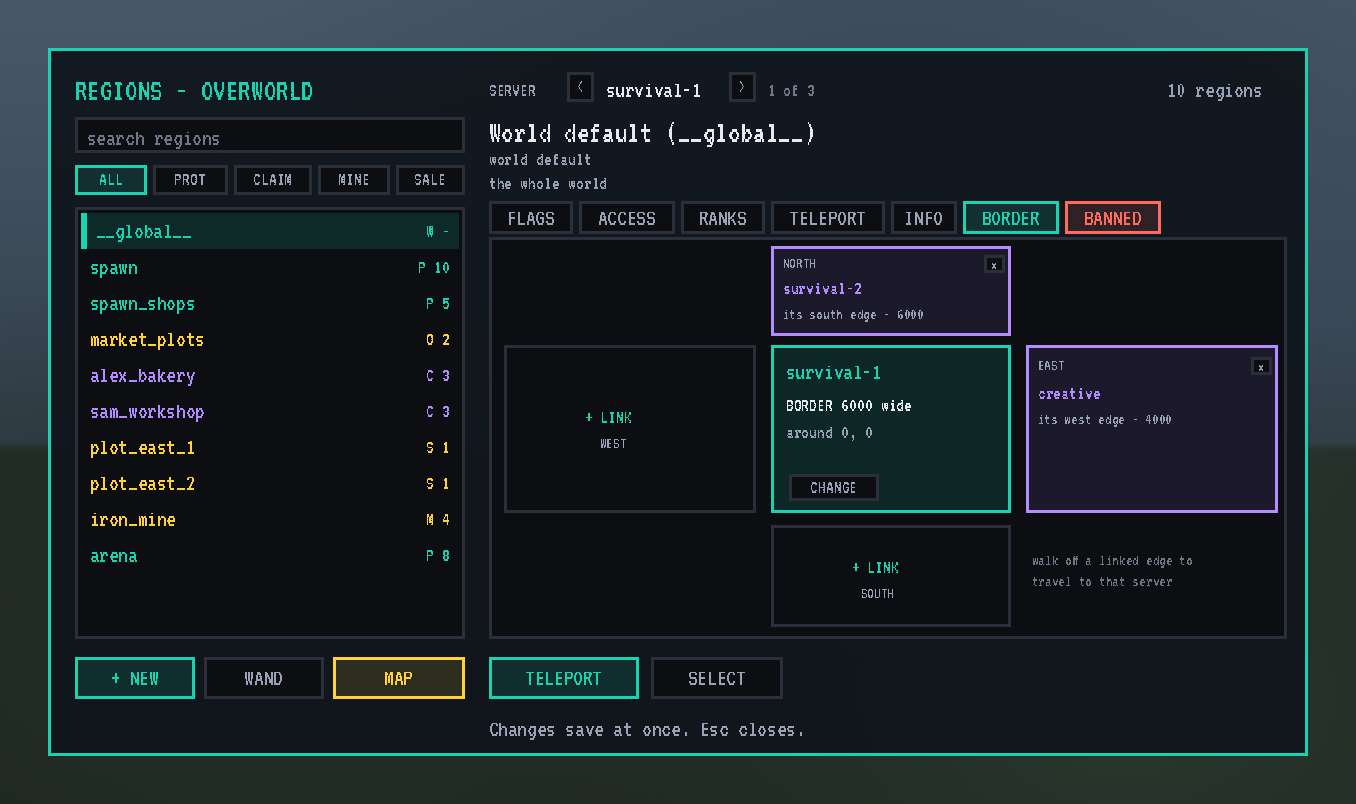
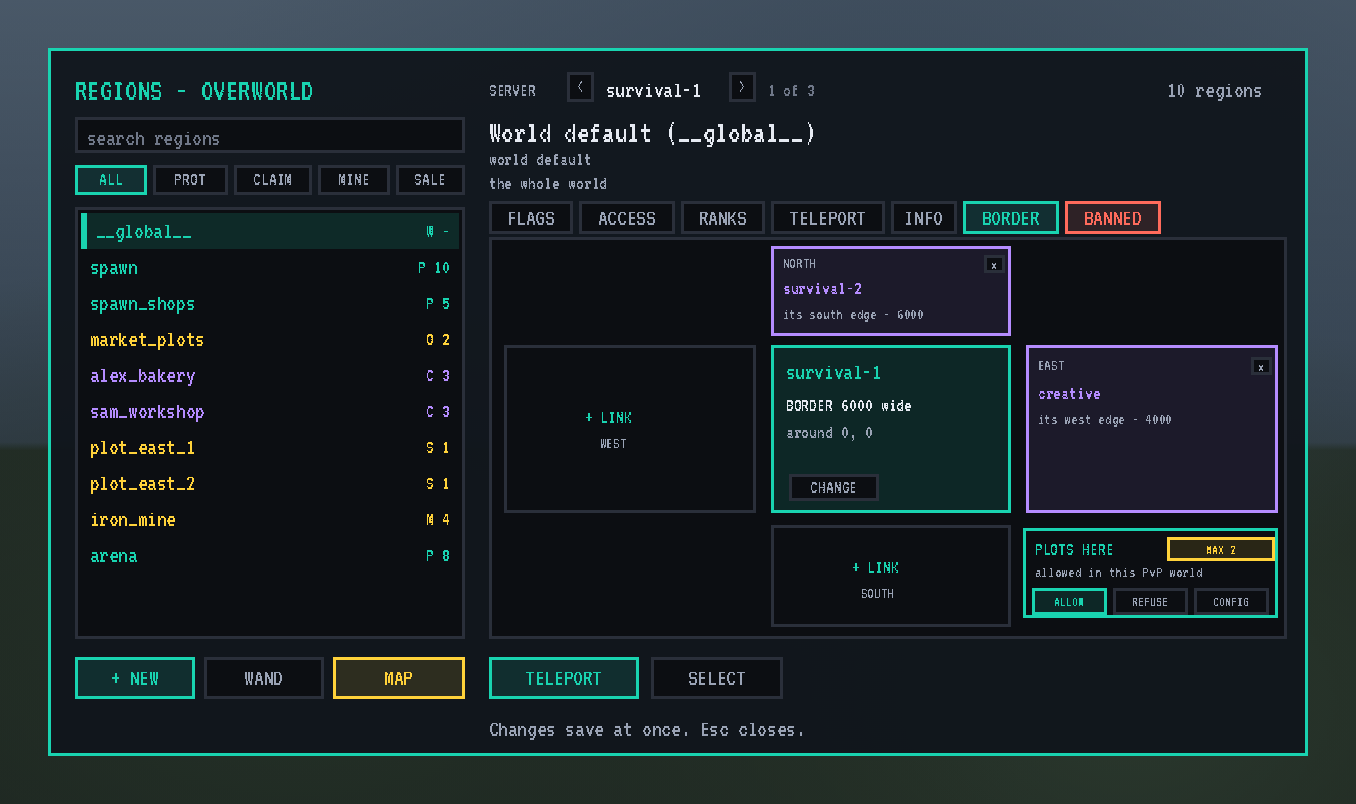
new map features

Changed region(s): [[0.7434, 0.653, 0.9602, 0.7774]]

diff --git a/tools/curseforge/admin_sale.html b/tools/curseforge/admin_sale.html
@@ -1,0 +1,74 @@
+<!doctype html>
+<html><head><meta charset="utf-8"><meta name="size" content="452x268"><link rel="stylesheet" href="holo.css"></head>
+<body>
+<div class="world"></div>
+<div class="screen" style="left:16px;top:16px;width:420px;height:236px">
+    <!-- left: list -->
+    <div class="abs t1 tq" style="left:8px;top:8px">REGIONS - OVERWORLD</div>
+    <div class="inset" style="left:8px;top:22px;width:130px;height:12px"><span class="abs t75 hint" style="left:3px;top:2px">search regions</span></div>
+    <div class="chip on" style="left:8px;top:38px;width:24px;height:10px">ALL</div>
+    <div class="chip" style="left:34px;top:38px;width:25px;height:10px">PROT</div>
+    <div class="chip" style="left:61px;top:38px;width:26px;height:10px">CLAIM</div>
+    <div class="chip" style="left:89px;top:38px;width:24px;height:10px">MINE</div>
+    <div class="chip" style="left:115px;top:38px;width:23px;height:10px">SALE</div>
+    <div class="inset" style="left:8px;top:52px;width:130px;height:144px">
+        <div class="row" style="top:1px"><span class="id muted">__global__</span><span class="ty muted">W -</span></div>
+        <div class="row" style="top:13px"><span class="id tq">spawn</span><span class="ty tq">P 10</span></div>
+        <div class="row" style="top:25px"><span class="id tq">spawn_shops</span><span class="ty tq">P 5</span></div>
+        <div class="row sel" style="top:37px"><span class="id gold">market_plots</span><span class="ty gold">O 2</span></div>
+        <div class="row" style="top:49px"><span class="id vio">alex_bakery</span><span class="ty vio">C 3</span></div>
+        <div class="row" style="top:61px"><span class="id vio">sam_workshop</span><span class="ty vio">C 3</span></div>
+        <div class="row" style="top:73px"><span class="id gold">plot_east_1</span><span class="ty gold">S 1</span></div>
+        <div class="row" style="top:85px"><span class="id gold">plot_east_2</span><span class="ty gold">S 1</span></div>
+        <div class="row" style="top:97px"><span class="id gold">iron_mine</span><span class="ty gold">M 4</span></div>
+        <div class="row" style="top:109px"><span class="id tq">arena</span><span class="ty tq">P 8</span></div>
+    </div>
+    <div class="btn tq" style="left:8px;top:202px;width:40px;height:14px">+ NEW</div>
+    <div class="btn" style="left:51px;top:202px;width:40px;height:14px">WAND</div>
+    <div class="btn gold" style="left:94px;top:202px;width:44px;height:14px;">MAP</div>
+
+    <!-- right: pane -->
+    <div class="abs t6 muted" style="left:146px;top:10px">SERVER</div>
+    <div class="chip" style="left:172px;top:7px;width:9px;height:10px">&lt;</div>
+    <div class="abs t75 text" style="left:185px;top:9px">survival-1</div>
+    <div class="chip" style="left:226px;top:7px;width:9px;height:10px">&gt;</div>
+    <div class="abs t6 hint" style="left:239px;top:10px">1 of 3</div>
+    <div class="abs t75 muted" style="left:372px;top:9px">10 regions</div>
+    <div class="abs t1 text" style="left:146px;top:22px">Market Plots (market_plots)</div>
+    <div class="abs t6 muted" style="left:146px;top:33px">open - priority 2</div>
+    <div class="abs t6 muted" style="left:146px;top:41px">(-40, -64, 120) to (23, 319, 183) - 64 x 384 x 64 - 0 owners - 0 members</div>
+    <div class="chip big" style="left:146px;top:50px;width:28px;height:11px">FLAGS</div>
+    <div class="chip big" style="left:176px;top:50px;width:32px;height:11px">ACCESS</div>
+    <div class="chip big" style="left:210px;top:50px;width:28px;height:11px">RANKS</div>
+    <div class="chip big on" style="left:240px;top:50px;width:22px;height:11px">SALE</div>
+    <div class="chip big" style="left:264px;top:50px;width:22px;height:11px">MINE</div>
+    <div class="chip big" style="left:288px;top:50px;width:38px;height:11px">TELEPORT</div>
+    <div class="chip big" style="left:328px;top:50px;width:22px;height:11px">INFO</div>
+    <div class="chip big bad" style="left:352px;top:50px;width:32px;height:11px">BANNED</div>
+    <div class="inset" style="left:146px;top:62px;width:266px;height:134px">
+        <div class="abs t6 gold" style="left:6px;top:5px">PLOT FOR SALE</div>
+        <div class="abs t5 hint" style="left:6px;top:12px">a fixed price for this whole region; the buyer becomes its owner</div>
+        <div class="abs t75 muted" style="left:6px;top:20px">not for sale</div>
+        <div class="btn gold" style="left:6px;top:31px;width:70px;height:12px">SET PRICE</div>
+        <div class="chip" style="left:82px;top:32px;width:30px;height:10px;font-size:5px">COPPER</div>
+        <div class="chip gold" style="left:114px;top:32px;width:30px;height:10px;font-size:5px">GOLD</div>
+        <div class="chip" style="left:146px;top:32px;width:30px;height:10px;font-size:5px">DIAMOND</div>
+        <div class="chip" style="left:178px;top:32px;width:30px;height:10px;font-size:5px">NETHERITE</div>
+        <div class="chip" style="left:210px;top:32px;width:30px;height:10px;font-size:5px">ILLYRIUM</div>
+        <div class="abs t6 gold" style="left:6px;top:52px">OPEN AREA</div>
+        <div class="abs t5 hint" style="left:6px;top:59px">players outline their own plot inside and pay per block of ground</div>
+        <div class="abs t75 text" style="left:6px;top:67px">2 gold coins per block, plots 5 to 16 blocks a side</div>
+        <div class="btn gold" style="left:6px;top:78px;width:70px;height:12px">SET COST</div>
+        <div class="btn" style="left:80px;top:78px;width:56px;height:12px">MIN SIZE</div>
+        <div class="btn" style="left:140px;top:78px;width:56px;height:12px">MAX SIZE</div>
+        <div class="abs t6 gold" style="left:6px;top:96px">BUYER MAY SET: entry, chest-access, use, greeting, farewell</div>
+        <div class="chip gold" style="left:226px;top:94px;width:34px;height:10px">edit</div>
+        <div class="abs t5 hint" style="left:6px;top:108px">Players buy at BSP Core's Land Office (block, or by finishing an outline with the wand).</div>
+        <div class="abs t6 text" style="left:6px;top:120px">Plots per player inside: 1</div>
+        <div class="chip gold" style="left:226px;top:118px;width:34px;height:10px">edit</div>
+    </div>
+    <div class="btn tq" style="left:146px;top:202px;width:50px;height:14px">TELEPORT</div>
+    <div class="btn" style="left:200px;top:202px;width:44px;height:14px">SELECT</div>
+    <div class="abs t75 muted" style="left:146px;top:222px">Changes save at once. Esc closes.</div>
+</div>
+</body></html>

diff --git a/tools/curseforge/admin_border.html b/tools/curseforge/admin_border.html
@@ -67,8 +67,14 @@
         <div class="abs" style="left:93px;top:95px;width:80px;height:34px;border:1px solid var(--line)">
             <span class="abs t6 tq" style="left:26px;top:10px">+ LINK</span><span class="abs t5 muted" style="left:29px;top:19px">SOUTH</span>
         </div>
-        <span class="abs t5 hint" style="left:180px;top:104px">walk off a linked edge to</span>
-        <span class="abs t5 hint" style="left:180px;top:111px">travel to that server</span>
+        <div class="abs" style="left:177px;top:96px;width:85px;height:30px;border:1px solid var(--tq)">
+            <span class="abs t6 tq" style="left:3px;top:3px">PLOTS HERE</span>
+            <span class="chip gold" style="left:47px;top:2px;width:36px;height:8px;font-size:5px">MAX 2</span>
+            <span class="abs t5 muted" style="left:3px;top:11px">allowed in this PvP world</span>
+            <span class="chip on" style="left:2px;top:19px;width:25px;height:9px;font-size:5px">ALLOW</span>
+            <span class="chip" style="left:29px;top:19px;width:25px;height:9px;font-size:5px">REFUSE</span>
+            <span class="chip" style="left:56px;top:19px;width:25px;height:9px;font-size:5px">CONFIG</span>
+        </div>
     </div>
     <div class="btn tq" style="left:146px;top:202px;width:50px;height:14px">TELEPORT</div>
     <div class="btn" style="left:200px;top:202px;width:44px;height:14px">SELECT</div>

diff --git a/src/main/java/com/mrgregles/bsp_region_guard/client/MapTileCache.java b/src/main/java/com/mrgregles/bsp_region_guard/client/MapTileCache.java
@@ -16,15 +16,32 @@ import java.util.Set;
 /**
  * The plot map's terrain on the client (D61): chunk colours as the server sent them, per world, and which chunks are
  * still on their way. The screen asks for what it shows and draws what has arrived.
+ *
+ * <p>World names repeat across servers (every server has a {@code minecraft:overworld}), so the tiles belong to one
+ * connection to one server: they are dropped when the client's level changes, which happens on every login and on a
+ * proxy's server switch (bug B12), and on login and logout.
  */
 public final class MapTileCache {
     private static final Map<String, Map<Long, byte[]>> TILES = new HashMap<>();
     private static final Set<String> ASKED = new HashSet<>();
+    /** The client level the tiles were gathered under; another level means another server or a fresh login. */
+    @Nullable
+    private static Object level;
 
     private MapTileCache() {
     }
 
+    /** Drops the tiles when the client is no longer in the level they came with. */
+    private static void sameServer() {
+        Object now = net.minecraft.client.Minecraft.getInstance().level;
+        if (now != level) {
+            clear();
+            level = now;
+        }
+    }
+
     public static void receive(MapTilesPacket msg) {
+        sameServer();
         Map<Long, byte[]> world = TILES.computeIfAbsent(msg.dimension(), k -> new HashMap<>());
         for (int i = 0; i < msg.chunks().size(); i++) {
             world.put(msg.chunks().get(i), msg.colours().get(i));
@@ -35,6 +52,7 @@ public final class MapTileCache {
     /** The colours of a chunk (256, row by row), an empty array for empty ground, or null when not here yet. */
     @Nullable
     public static byte[] chunk(String dimension, long chunk) {
+        sameServer();
         Map<Long, byte[]> world = TILES.get(dimension);
         return world == null ? null : world.get(chunk);
     }
@@ -47,6 +65,7 @@ public final class MapTileCache {
 
     /** Asks the server for any of these chunks not here and not already asked for. */
     public static void want(String dimension, List<Long> chunks, boolean refresh) {
+        sameServer();
         List<Long> ask = new ArrayList<>();
         for (long c : chunks) {
             if ((refresh || chunk(dimension, c) == null) && ASKED.add(dimension + "|" + c)) {

diff --git a/src/main/java/com/mrgregles/bsp_region_guard/client/RegionScreen.java b/src/main/java/com/mrgregles/bsp_region_guard/client/RegionScreen.java
@@ -1271,7 +1271,11 @@ public class RegionScreen extends HoloScreen {
     /** An amount in this region's currency (D95): {@code 500 pieces} or {@code 5 gold coins}; {@code currency} null reads the detail's. */
     private static String money(java.util.Map<String, String> data, String amount, @Nullable String currency) {
         String c = currency != null ? currency : data.getOrDefault("currency", "pieces");
-        return c.equals("pieces") ? Tr.t("amount_pieces", amount) : Tr.t("amount_coins", amount, Tr.t("coin_tier." + c).toLowerCase(java.util.Locale.ROOT));
+        if (c.equals("pieces")) {
+            return Tr.t("amount_pieces", amount);
+        }
+        String tier = Tr.t("coin_tier." + c).toLowerCase(java.util.Locale.ROOT);
+        return amount.equals("1") ? Tr.t("amount_coin", amount, tier) : Tr.t("amount_coins", amount, tier);
     }
 
     private void data(String key, String current, String hint) {

diff --git a/src/main/java/com/mrgregles/bsp_region_guard/client/ClientSetup.java b/src/main/java/com/mrgregles/bsp_region_guard/client/ClientSetup.java
@@ -34,6 +34,7 @@ public final class ClientSetup {
         MinecraftForge.EVENT_BUS.addListener(RegionRenderer::onRenderLevel);
         MinecraftForge.EVENT_BUS.addListener(ClientSetup::onClientTick);
         MinecraftForge.EVENT_BUS.addListener(ClientSetup::onLoggingOut);
+        MinecraftForge.EVENT_BUS.addListener(ClientSetup::onLoggingIn);
     }
 
     private static void onClientTick(TickEvent.ClientTickEvent event) {
@@ -51,5 +52,11 @@ public final class ClientSetup {
 
     private static void onLoggingOut(net.minecraftforge.client.event.ClientPlayerNetworkEvent.LoggingOut event) {
         RegionClient.clear();
+        MapTileCache.clear();
+    }
+
+    /** Also on a proxy's server switch: another server's map tiles must not carry over (B12). */
+    private static void onLoggingIn(net.minecraftforge.client.event.ClientPlayerNetworkEvent.LoggingIn event) {
+        MapTileCache.clear();
     }
 }

diff --git a/tools/gen_assets.py b/tools/gen_assets.py
@@ -98,6 +98,7 @@ GUI = {
     "links_need_shared_storage": "links need shared storage",
     "plots_here": "PLOTS HERE",
     "amount_pieces": "%s pieces",
+    "amount_coin": "%s %s coin",
     "amount_coins": "%s %s coins",
     "worth_copper": "coins worth %s copper",
     "price_in_coins_0_takes_it_off_sale": "price in coins of the lit tier (none lit: the config's tier); 0 takes it off sale",

diff --git a/docs/curseforge/DESCRIPTION.md b/docs/curseforge/DESCRIPTION.md
@@ -14,7 +14,7 @@ It takes WorldGuard's ideas to Forge and drives them from screens rather than lo
 
 It is made for the [Build Secure Protect](https://www.curseforge.com/minecraft/modpacks/build-secure-protect) modpack and works closely with its sister mods: **BSP-Core** (required), and **BSP-Teleport** and **BSP-RankUp** (optional).
 
-> Version 0.4.0. The screens in this description are drawn from the mod's own layout and colours, as illustrations.
+> Version 0.5.0. The screens in this description are drawn from the mod's own layout and colours, as illustrations.
 
 ---
 
@@ -24,7 +24,7 @@ It is made for the [Build Secure Protect](https://www.curseforge.com/minecraft/m
 |---|---|
 | **Minecraft** | 1.20.1, Forge 47.4.10 or newer; runs on Mohist |
 | **Install on** | the server **and** every player (the screens and in-world drawing are client side) |
-| **Requires** | [BSP-Core](https://github.com/Build-Secure-Protect/BSP-Core) 1.1.0 or newer (tested with 1.3.0) |
+| **Requires** | [BSP-Core](https://github.com/Build-Secure-Protect/BSP-Core) 1.4.3 or newer |
 | **Works with** | [BSP-Teleport](https://github.com/Build-Secure-Protect/BSP-Teleport), BSP-RankUp, [LuckPerms](https://luckperms.net/) (Forge mod or the Bukkit plugin on Mohist) |
 | **Optional** | MySQL and Redis, only for several servers |
 
@@ -112,6 +112,10 @@ It also holds the world's **border**, a square set with `/rg border set <width>`
 - In the Overworld, Minecraft's own wall is moved to match so everyone can see it.
 - Teleports and homes outside the border are refused.
 
+The BORDER tab also has a **PLOTS HERE** card that decides land for players in this world (section 7):
+- **ALLOW**, **REFUSE** or **CONFIG**: whether plots may be made and bought in a world where Shatter Totems can be placed.
+- **MAX**: how many plots one player may own in this world.
+
 ## 5. Who may come in: members and ranks
 
 - **ACCESS tab:** a region's **owners** and **members**. They pass entry rules and may build.
@@ -122,7 +126,7 @@ It also holds the world's **border**, a square set with `/rg border set <width>`
 **With BSP-RankUp**, players climb a LuckPerms rank ladder by playing: time online, fights, Shatter Totems stolen and defended, and seasons survived. Region Guard reads those same groups, so ranking up actually opens doors:
 - **Rank-gated regions** let a player in once they reach the rank.
 - **Rank-gated mines** unlock better ores at higher ranks.
-- **Claim limits** rise with rank: 3 claims by default, more for higher groups (`claims.limitsByRank`).
+- **Claim limits** rise with rank: 3 claims per world by default, more for higher groups (`claims.limitsByRank`).
 
 Without RankUp, give groups by hand in LuckPerms and everything works the same.
 
@@ -181,9 +185,20 @@ Admins sell land in two ways:
 **Buying, with BSP-Core:**
 1. A player takes the plot tool (`/claim tool`) and clicks two corners.
 2. BSP-Core's **Land Office** opens with that ground drawn on a map, priced, and with nearby claims shown.
-3. The player buys it there, paid from their **BSP-Core bank** in Shatter Pieces.
+3. The player buys it there.
 
 Plots for sale are bought at the Land Office block too.
+
+**Pieces or coins:** plots are paid from the player's **BSP-Core bank** in Shatter Pieces by default.
+- Set `claims.currency = "coins"` and they cost **Shatter Coins from the player's inventory** instead.
+- A price is then a number of coins of one tier, such as "3 gold coins". Choose the tier per plot or open area on the SALE tab.
+- Any coins adding up to the price will do, and change comes back.
+
+![The admin screen, SALE tab](https://raw.githubusercontent.com/Build-Secure-Protect/BSP-Region-Guard/main/docs/curseforge/images/admin_sale.png)
+
+**How many plots each:**
+- Any region can limit the plots one player may own inside it ("Plots per player inside" on its SALE tab): one shop each in the market, two plots each in the village.
+- The world has its own limit, which ranks can raise.
 
 **Running your claim:** `/claim gui` (or sneak and right-click the plot tool) opens your claim card:
 - **Who may build:** add members.
@@ -194,7 +209,7 @@ Plots for sale are bought at the Land Office block too.
 ![The claim screen](https://raw.githubusercontent.com/Build-Secure-Protect/BSP-Region-Guard/main/docs/curseforge/images/claim_screen.png)
 
 **Fair play for raiders:**
-- Claims are not allowed in PvP worlds.
+- In a world where Shatter Totems can be placed, plots are refused unless PvP is denied on the world default or the world's PLOTS HERE card allows them.
 - A claim may not hold a Shatter Totem while any of its rules would stop a steal.
 - Near another player's placed totem, regions never stop a raider.
 
@@ -302,8 +317,8 @@ When a player reaches a linked edge, a window asks whether to travel:
 ## Working with the other BSP mods
 
 ### BSP-Core (required)
-- **Money:** claims are paid from the **BSP-Core bank** in Shatter Pieces, and refunds go back to it.
-- **The Land Office:** BSP-Core's land shop. Outline ground with the plot tool and it opens with the price; buy, enlarge or give up there. It also shows plots for sale and your neighbours' claims.
+- **Money:** claims are paid from the **BSP-Core bank** in Shatter Pieces, or in **Shatter Coins** from the inventory if you choose. Refunds go back the same way.
+- **The Land Office:** BSP-Core's land shop. Outline ground with the plot tool and it opens with the price, in pieces or coins; buy, enlarge or give up there. It also shows plots for sale and your neighbours' claims.
 - **Admins:** BSP-Core's admin list decides who runs Region Guard.
 - **Shatter Totems:** regions never stop a steal near another player's placed totem. BSP-Core's Anti Totem zones and Region Guard regions work together for totem placing, teleports and homes.
 
@@ -342,6 +357,9 @@ When a player reaches a linked edge, a window asks whether to travel:
 | `/rg border set <width> [x z]`, `/rg border off`, `/rg border link ...` | the world border and edge links |
 | `/rg mine ...` | fill table, interval, spawn, shell, reset |
 | `/rg sale ...`, `/rg plotflags ...` | plots for sale and open areas |
+| `/rg cointier <id> <tier>` | the coin tier a plot or open area is priced in (with `claims.currency = "coins"`) |
+| `/rg plotlimit <id> <number>` | how many plots one player may own inside a region (`none` removes the limit; `__global__`: in the world) |
+| `/rg claims pvp <rule>` | plots in this world when it counts as a PvP world: `allow`, `deny` or `default`; no rule shows the current one |
 | `/rg trigger add <id> <cause> <destination>` | region triggers |
 | `/rg claims wipe`, `/rg claims restore` | the per-world claim wipe |
 | `/rg bypass` | switch your admin bypass off or on |
@@ -351,10 +369,10 @@ When a player reaches a linked edge, a window asks whether to travel:
 
 ## For developers
 
-Other mods can use Region Guard through its public API (`com.mrgregles.bsp_region_guard.api`, version 5):
+Other mods can use Region Guard through its public API (`com.mrgregles.bsp_region_guard.api`, version 6):
 - **Questions:** ask whether a flag allows something at a spot; read flag values, region bounds and the world border.
 - **Extending it:** register your own flags and exemptions.
-- **Claims and mines:** work with claims (listings, quotes, purchases) and mines.
+- **Claims and mines:** work with claims (listings, quotes, purchases, prices in pieces or coins) and mines.
 - **Messages:** send messages to the other servers.
 - **Events:** players entering and leaving regions, triggers, claims bought and abandoned, and mine resets.
 
@@ -362,6 +380,6 @@ Full reference in [`docs/API.md`](https://github.com/Build-Secure-Protect/BSP-Re
 
 ---
 
-**Early release:** 0.4.0 is an early version and has not yet run on a large live network. Please report problems on the [issue tracker](https://github.com/Build-Secure-Protect/BSP-Region-Guard/issues).
+**Early release:** 0.5.0 is an early version and has not yet run on a large live network. Please report problems on the [issue tracker](https://github.com/Build-Secure-Protect/BSP-Region-Guard/issues).
 
 Source: [github.com/Build-Secure-Protect/BSP-Region-Guard](https://github.com/Build-Secure-Protect/BSP-Region-Guard) · MIT licence · Made for [Build Secure Protect](https://www.curseforge.com/minecraft/modpacks/build-secure-protect)

diff --git a/docs/curseforge/CHANGELOG-0.5.0.md b/docs/curseforge/CHANGELOG-0.5.0.md
@@ -1,0 +1,51 @@
+# BSP Region Guard 0.5.0: plots in PvP worlds, plot limits and Shatter Coins
+
+Everything added since 0.4.0. For Minecraft 1.20.1 (Forge 47.4.10 and Mohist).
+
+> **Now requires BSP-Core 1.4.3 or newer** on the server and every player; with an older BSP-Core, this Region Guard won't load. Update the server and every player together.
+
+## New: plots in PvP worlds, per world
+
+- A world where Shatter Totems can be placed counts as a PvP world, and plots are refused there unless you allow them.
+- **Each world now has its own switch.** On the world default's **BORDER** tab, a new **PLOTS HERE** card shows whether plots are allowed and why:
+  - **ALLOW:** plots may be made and bought in this world.
+  - **REFUSE:** no plots in this world.
+  - **CONFIG:** follow the server config (`claims.allowInPvpWorlds`), as before.
+- **`pvp deny` on the world default now counts:** a world where PvP is switched off allows plots.
+- `/rg claims pvp allow|deny|default` does the same, and `/rg claims pvp` on its own tells you the current rule and why.
+- The totem rule hasn't changed. Near another player's placed totem, regions still never stop a raider, even where PvP is denied.
+
+## New: plot limits per region
+
+- **Any region can limit how many plots one player may own inside it.** It's on the region's SALE tab ("Plots per player inside", EDIT) or `/rg plotlimit <id> <number|none>`. Use it for a market where each player gets one shop, or a village with two plots each.
+- A plot counts when its ground lies inside the region, whatever its height.
+- **The world default's limit** is the **MAX** button on its PLOTS HERE card, or `/rg plotlimit __global__ <number>`. It replaces `claims.maxPerPlayer` for that world. Higher LuckPerms ranks (`claims.limitsByRank`) can still raise it.
+- Every limit must pass: the world's, and that of every region the new plot lies inside. A refused player is told which limit they've reached.
+
+## New: plots priced in Shatter Coins
+
+- Set `currency = "coins"` in the `[claims]` section of the server config. Plots then cost **Shatter Coins from the player's inventory** instead of Shatter Pieces from the bank.
+- **The price is a number of coins of one tier**, for example "3 gold coins". The same goes for an open area's price per block.
+  - Choose the tier per plot or open area with the tier buttons after SET PRICE on the SALE tab, or `/rg cointier <id> <copper|gold|diamond|netherite|illyrium|default>`.
+  - Otherwise `claims.coinTier` (copper) decides.
+- **Paying:** any coins adding up to the price will do, and change comes back, the same way BSP-Core counts coins everywhere else.
+- **Giving a plot up** pays half back in coins. A player who is offline gets them at their next login on that server.
+- Each claim remembers what it cost in each currency, so a plot bought with pieces still refunds pieces after you switch to coins.
+- **BSP-Core 1.4.3's Land Office** shows coin prices and the coins you carry when Region Guard is in coin mode.
+- Switching the setting reads the same numbers in the new currency (a plot priced 5,000 pieces becomes 5,000 coins), so set new prices when you switch.
+
+## Fixed
+
+- After moving to another server on a network, the region map kept showing the previous server's terrain. It now loads the new server's terrain.
+
+## Changed
+
+- When a plot is refused in a PvP world, admins are told why the world counts as PvP and how to allow plots.
+- `/rg claims list` shows what each claim cost in pieces, coins or both.
+
+## For developers
+
+- **API version 6:** `claims().paysInCoins()` and `claims().priceText(level, regionId, amount)`, for example "5 gold coins".
+- In coin mode, a listing's `price` and `costPerBlock`, and a result's `price`, count coins. Purchases in coins answer at once.
+- `claims().claimLimit(player)` starts from the world default's plot limit when it has one.
+- `claims().claimsAllowedIn(level)` follows the new per-world rule.

diff --git a/CHANGELOG.md b/CHANGELOG.md
@@ -4,7 +4,12 @@ All notable changes to BSP Region Guard. Format follows Keep a Changelog; versio
 
 ## [Unreleased]
 
-**Needs BSP-Core 1.4.3 or newer** (was 1.1.0): coins go through BSP-Core's new `api.BspCoins` (request RG-C9). Region Guard now builds against BSP-Core 1.4.3.
+## [0.5.0] - 2026-10-23
+
+Plots in PvP worlds, plot limits per region, and plots priced in Shatter Coins. **Needs BSP-Core 1.4.3 or newer** (was 1.1.0): coins go through BSP-Core's new `api.BspCoins` (request RG-C9); Region Guard now builds against BSP-Core 1.4.3. API version 6. Network protocol unchanged (7).
+
+### Fixed (2026-10-23, B12: map terrain after a server switch)
+- After moving to another server through the proxy, the region map kept drawing the previous server's terrain for worlds with the same name (every server has an overworld). The map's tiles now belong to one server: they are dropped when the client's world changes, on login and on logout (`client/MapTileCache`, `ClientSetup`).
 
 ### Fixed (2026-10-23, B11: plots in PvP worlds)
 - A world counted as a PvP world for plots whenever BSP Core allows Shatter Totems there, even with `pvp` denied on its world default. Now a world default with **`pvp` deny counts as not PvP for plots** (D93). The totem rule is unchanged: raiders are still not stopped near another player's totem (D94).

diff --git a/docs/TESTING.md b/docs/TESTING.md
@@ -440,3 +440,11 @@ Needs BSP-Core 1.4.3 or newer on the server and the client (older ones refuse to
 - [ ] Switch `currency` back to `pieces` and restart: prices read as pieces again; a claim bought with coins still refunds coins.
 - [ ] Land Office (BSP-Core 1.4.3, RG-C9): in coin mode it shows "3 gold coins" for the price, the cost per block and the outline quote, and the coins you carry instead of the bank balance. Buying there takes coins and gives change.
 
+## 2026-10-23: map terrain after a server switch (B12)
+
+On the network, as an admin on two servers whose overworlds look different. Built and tested headless (106 GameTests); the fix is client side and untested in a client.
+
+- [ ] On server A, open the region map (`/rg map`) and look around so its terrain loads. Close it.
+- [ ] Move to server B through the proxy (`/server B` or an edge link). Open the region map: only server B's terrain is drawn, filling in as it arrives; nothing of server A's islands or plots remains.
+- [ ] Go back to server A: its terrain loads again (fresh, not left over from before).
+
